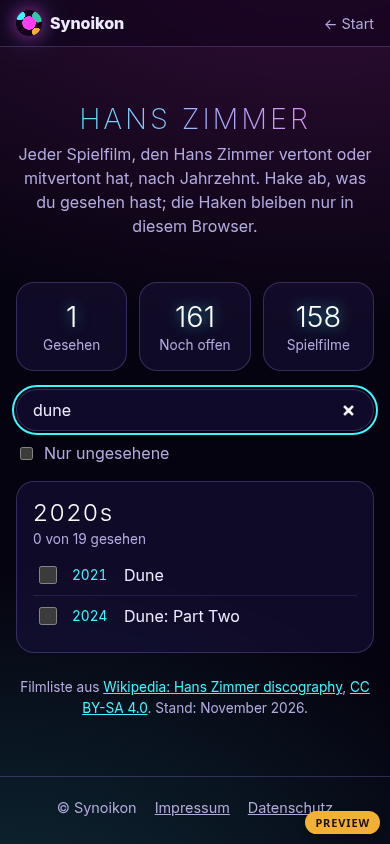
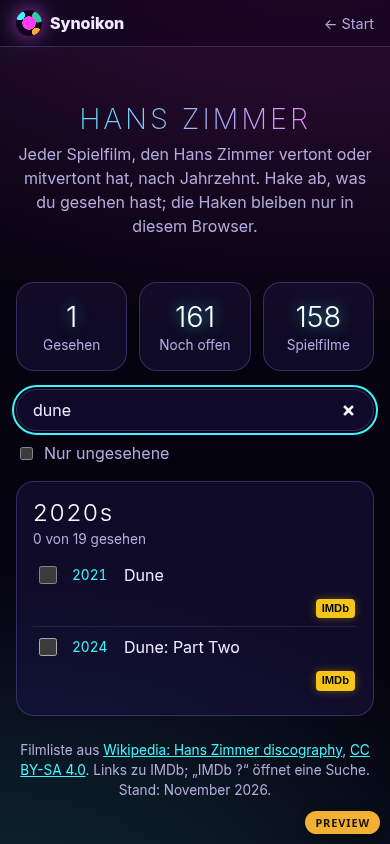
Zimmer tracker: IMDb link per film (164 exact IDs via Wikidata P345, 2 search fallbacks); new tab, noopener noreferrer; link outside the tick label

diff --git a/home/zimmer/index.html b/home/zimmer/index.html
@@ -31,6 +31,10 @@
     .row.seen .ti { color: var(--muted); text-decoration: line-through; }
     .co { color: var(--muted); font-size: .82rem; }
     .credit { color: var(--muted); font-size: .85rem; text-align: center; margin-top: 24px; line-height: 1.5; }
+    .row label { display: contents; cursor: pointer; }
+    .imdb { margin-left: auto; font: 800 .7rem/1 Arial, sans-serif; color: #000 !important; background: #f5c518; border-radius: 4px; padding: 4px 6px; text-decoration: none; box-shadow: 0 0 10px rgba(245,197,24,.35); }
+    .imdb.s { background: transparent; color: #f5c518 !important; border: 1px solid #f5c518; }
+    .imdb:hover, .imdb:focus-visible { box-shadow: 0 0 16px rgba(245,197,24,.8); outline: none; }
     .empty { color: var(--muted); text-align: center; }
     .brand + a { color: var(--muted); font-size: .9rem; text-decoration: none; }
   </style>
@@ -55,16 +59,17 @@
       <label><input type="checkbox" id="unseen"> <span data-i18n="unseen">Unseen only</span></label>
     </div>
     <div id="list"></div>
-    <p class="credit"><span data-i18n="credit">Film list from</span> <a href="https://en.wikipedia.org/wiki/Hans_Zimmer_discography" rel="noopener">Wikipedia: Hans Zimmer discography</a>, <a href="https://creativecommons.org/licenses/by-sa/4.0/" rel="noopener">CC BY-SA 4.0</a>. <span data-i18n="state">Status: November 2026.</span></p>
+    <p class="credit"><span data-i18n="credit">Film list from</span> <a href="https://en.wikipedia.org/wiki/Hans_Zimmer_discography" rel="noopener">Wikipedia: Hans Zimmer discography</a>, <a href="https://creativecommons.org/licenses/by-sa/4.0/" rel="noopener">CC BY-SA 4.0</a>. <span data-i18n="imdbC">Links go to IMDb; “IMDb ?” opens a search.</span> <span data-i18n="state">Status: November 2026.</span></p>
   </main>
   <footer class="foot"><span>© Synoikon</span><a href="../impressum/">Impressum</a><a href="../datenschutz/" data-i18n="priv">Privacy</a></footer>
   <script>
 const FILMS = [["Moonlighting",1982,"Stanley Myers"],["Success Is the Best Revenge",1984,"Stanley Myers"],["Story of O – Chapter 2",1984,"Stanley Myers"],["My Beautiful Laundrette",1985,"Stanley Myers"],["Insignificance",1985,"Stanley Myers"],["The Zero Boys",1986,"Stanley Myers"],["Separate Vacations",1986,"Stanley Myers"],["Terminal Exposure",1987,"Stanley Myers"],["Nightmare at Noon",1988,"Stanley Myers"],["The Wind",1986,"Stanley Myers"],["The Nature of the Beast",1988,"Stanley Myers"],["The Fruit Machine",1988,"Stanley Myers"],["A World Apart",1988,""],["Taffin",1988,"Stanley Myers"],["Paperhouse",1988,"Stanley Myers"],["Rain Man",1988,""],["Burning Secret",1988,""],["Twister",1989,""],["Black Rain",1989,""],["Diamond Skulls",1989,""],["Driving Miss Daisy",1989,""],["Chicago Joe and the Showgirl",1990,""],["Bird on a Wire",1990,""],["Fools of Fortune",1990,""],["Days of Thunder",1990,""],["Pacific Heights",1990,""],["Green Card",1990,""],["Backdraft",1991,""],["Thelma & Louise",1991,""],["Regarding Henry",1991,""],["Where Sleeping Dogs Lie",1992,"Mark Mancina"],["K2",1991,"Chaz Jankel"],["Radio Flyer",1992,""],["The Power of One",1992,""],["A League of Their Own",1992,""],["Toys",1992,"Trevor Horn"],["Point of No Return",1993,""],["Younger and Younger",1993,""],["Calendar Girl",1993,""],["True Romance",1993,""],["Cool Runnings",1993,""],["The House of the Spirits",1993,""],["I'll Do Anything",1994,""],["Renaissance Man",1994,""],["The Lion King",1994,""],["Drop Zone",1994,""],["Crimson Tide",1995,""],["Beyond Rangoon",1995,""],["Nine Months",1995,""],["Something to Talk About",1995,"Graham Preskett"],["Two Deaths",1995,""],["The Whole Wide World",1996,"Harry Gregson-Williams"],["Broken Arrow",1996,""],["Muppet Treasure Island",1996,""],["The Rock",1996,"Nick Glennie-Smith"],["The Fan",1996,""],["The Preacher's Wife",1996,""],["Smilla's Sense of Snow",1997,"Harry Gregson-Williams"],["The Peacemaker",1997,""],["As Good as It Gets",1997,""],["The Prince of Egypt",1998,""],["The Thin Red Line",1998,""],["Chill Factor",1999,"John Powell"],["An Everlasting Piece",2000,""],["Mission: Impossible 2",2000,""],["The Road to El Dorado",2000,"John Powell"],["Gladiator",2000,"Lisa Gerrard"],["Black Hawk Down",2001,""],["Riding in Cars with Boys",2001,""],["Pearl Harbor",2001,""],["Hannibal",2001,""],["Invincible",2001,"Klaus Badelt"],["The Pledge",2001,"Klaus Badelt"],["Spirit: Stallion of the Cimarron",2002,""],["The Country Bears",2002,""],["The Ring",2002,""],["The Last Samurai",2003,""],["Something's Gotta Give",2003,""],["Matchstick Men",2003,""],["Tears of the Sun",2003,""],["Spanglish",2004,""],["Laura's Star",2004,"Nick Glennie-Smith & Henning Lohner"],["King Arthur",2004,""],["Thunderbirds",2004,""],["Shark Tale",2004,""],["The Weather Man",2005,"James S. Levine"],["The Little Polar Bear 2: The Mysterious Island",2005,"Nick Glennie-Smith"],["Madagascar",2005,""],["Batman Begins",2005,"James Newton Howard"],["Pirates of the Caribbean: Dead Man's Chest",2006,""],["The Da Vinci Code",2006,""],["The Holiday",2006,""],["Pirates of the Caribbean: At World's End",2007,""],["The Simpsons Movie",2007,""],["Road to Fame",2008,""],["Kung Fu Panda",2008,"John Powell"],["The Dark Knight",2008,"James Newton Howard"],["Madagascar: Escape 2 Africa",2008,"will.i.am"],["The Burning Plain",2008,"Omar Rodríguez-López"],["Frost/Nixon",2008,""],["Angels & Demons",2009,""],["Sherlock Holmes",2009,""],["It's Complicated",2009,"Heitor Pereira"],["Inception",2010,""],["Megamind",2010,"Lorne Balfe"],["How Do You Know",2010,""],["Henri 4",2010,"Henry Jackman"],["Rango",2011,""],["Pirates of the Caribbean: On Stranger Tides",2011,""],["Kung Fu Panda 2",2011,"John Powell"],["The Dilemma",2011,"Lorne Balfe"],["Sherlock Holmes: A Game of Shadows",2011,""],["Madagascar 3: Europe's Most Wanted",2012,""],["The Dark Knight Rises",2012,""],["Rush",2013,""],["Man of Steel",2013,""],["The Lone Ranger",2013,""],["Mr. Morgan's Last Love",2013,""],["12 Years a Slave",2013,""],["Son of God",2014,"Lorne Balfe and Lisa Gerrard"],["The Amazing Spider-Man 2",2014,"The Magnificent Six"],["Winter's Tale",2014,"Rupert Gregson-Williams"],["Interstellar",2014,""],["Chappie",2015,""],["The Little Prince",2015,"Richard Harvey and Camille"],["Freeheld",2015,"Johnny Marr"],["Woman in Gold",2015,"Martin Phipps"],["Kung Fu Panda 3",2016,""],["Batman v Superman: Dawn of Justice",2016,"Junkie XL"],["The Last Face",2016,""],["Inferno",2016,""],["Hidden Figures",2016,"Pharrell Williams and Benjamin Wallfisch"],["The Boss Baby",2017,"Steve Mazzaro"],["Pirates of the Caribbean: Dead Men Tell No Tales",2017,"themes only, score by Geoff Zanelli"],["Dunkirk",2017,""],["Blade Runner 2049",2017,"Benjamin Wallfisch"],["Widows",2018,""],["Dark Phoenix",2019,""],["The Lion King",2019,""],["The SpongeBob Movie: Sponge on the Run",2020,"Steve Mazzaro"],["Hillbilly Elegy",2020,"David Fleming"],["Wonder Woman 1984",2020,""],["The Boss Baby: Family Business",2021,"Steve Mazzaro"],["Dune",2021,""],["The Survivor",2021,""],["No Time to Die",2021,""],["Army of Thieves",2021,"Steve Mazzaro"],["The Unforgivable",2021,"David Fleming"],["Top Gun: Maverick",2022,"Harold Faltermeyer and Lady Gaga"],["The Son",2022,""],["Are You There God? It's Me, Margaret.",2023,""],["The Creator",2023,""],["Dune: Part Two",2024,""],["Kung Fu Panda 4",2024,"Steve Mazzaro"],["Eden",2024,""],["Blitz",2024,""],["F1",2025,""],["Ella McCay",2025,""]];
 const DOCS = [["The Last Days",1998,""],["Jealous of the Birds",2011,""],["Brave Miss World",2013,""],["Rebuilding Paradise",2020,"Lorne Balfe"]];
+const IMDB = {"12 Years a Slave|2013":"tt2024544","A League of Their Own|1992":"tt0104694","A World Apart|1988":"tt0096464","An Everlasting Piece|2000":"tt0218182","Angels & Demons|2009":"tt0808151","Are You There God? It's Me, Margaret.|2023":"tt9185206","Army of Thieves|2021":"tt13024674","As Good as It Gets|1997":"tt0119822","Backdraft|1991":"tt0101393","Batman Begins|2005":"tt0372784","Batman v Superman: Dawn of Justice|2016":"tt2975590","Beyond Rangoon|1995":"tt0112495","Bird on a Wire|1990":"tt0099141","Black Hawk Down|2001":"tt0265086","Black Rain|1989":"tt0096933","Blade Runner 2049|2017":"tt1856101","Blitz|2024":"tt15939198","Brave Miss World|2013":"tt2514298","Broken Arrow|1996":"tt0115759","Burning Secret|1988":"tt0094816","Calendar Girl|1993":"tt0106505","Chappie|2015":"tt1823672","Chicago Joe and the Showgirl|1990":"tt0099250","Chill Factor|1999":"tt0163579","Cool Runnings|1993":"tt0106611","Crimson Tide|1995":"tt0112740","Dark Phoenix|2019":"tt6565702","Days of Thunder|1990":"tt0099371","Diamond Skulls|1989":"tt0097158","Driving Miss Daisy|1989":"tt0097239","Drop Zone|1994":"tt0109676","Dune: Part Three|2026":"tt31378509","Dune: Part Two|2024":"tt15239678","Dune|2021":"tt1160419","Dunkirk|2017":"tt5013056","Eden|2024":"tt23149780","Ella McCay|2025":"tt30096221","F1|2025":"tt16311594","Fools of Fortune|1990":"tt0099594","Freeheld|2015":"tt1658801","Frost/Nixon|2008":"tt0870111","Gladiator|2000":"tt0172495","Green Card|1990":"tt0099699","Hannibal|2001":"tt0212985","Henri 4|2010":"tt1270766","Hidden Figures|2016":"tt4846340","Hillbilly Elegy|2020":"tt6772802","How Do You Know|2010":"tt1341188","I'll Do Anything|1994":"tt0110097","Inception|2010":"tt1375666","Inferno|2016":"tt3062096","Insignificance|1985":"tt0089343","Interstellar|2014":"tt0816692","Invincible|2001":"tt0245171","It's Complicated|2009":"tt1230414","Jealous of the Birds|2011":"tt1531683","K2|1991":"tt0102178","King Arthur|2004":"tt0349683","Kung Fu Panda 2|2011":"tt1302011","Kung Fu Panda 3|2016":"tt2267968","Kung Fu Panda 4|2024":"tt21692408","Kung Fu Panda|2008":"tt0441773","Laura's Star|2004":"tt0416908","Madagascar 3: Europe's Most Wanted|2012":"tt1277953","Madagascar: Escape 2 Africa|2008":"tt0479952","Madagascar|2005":"tt0351283","Man of Steel|2013":"tt0770828","Matchstick Men|2003":"tt0325805","Megamind|2010":"tt1001526","Mission: Impossible 2|2000":"tt0120755","Moonlighting|1982":"tt0084354","Mr. Morgan's Last Love|2013":"tt1838603","Muppet Treasure Island|1996":"tt0117110","My Beautiful Laundrette|1985":"tt0091578","Nightmare at Noon|1988":"tt0100261","Nine Months|1995":"tt0113986","No Time to Die|2021":"tt2382320","Pacific Heights|1990":"tt0100318","Paperhouse|1988":"tt0098061","Pearl Harbor|2001":"tt0213149","Pirates of the Caribbean: At World's End|2007":"tt0449088","Pirates of the Caribbean: Dead Man's Chest|2006":"tt0383574","Pirates of the Caribbean: Dead Men Tell No Tales|2017":"tt1790809","Pirates of the Caribbean: On Stranger Tides|2011":"tt1298650","Point of No Return|1993":"tt0107843","Radio Flyer|1992":"tt0105211","Rain Man|1988":"tt0095953","Ramayana: Part 1|2026":"tt27988879","Ramayana: Part 2|2027":"tt34464688","Rango|2011":"tt1192628","Rebuilding Paradise|2020":"tt9735350","Regarding Henry|1991":"tt0102768","Renaissance Man|1994":"tt0110971","Riding in Cars with Boys|2001":"tt0200027","Road to Fame|2008":"tt1049948","Rush|2013":"tt1979320","Separate Vacations|1986":"tt0091923","Shark Tale|2004":"tt0307453","Sherlock Holmes: A Game of Shadows|2011":"tt1515091","Sherlock Holmes|2009":"tt0988045","Smilla's Sense of Snow|1997":"tt0120152","Something to Talk About|1995":"tt0114496","Something's Gotta Give|2003":"tt0337741","Son of God|2014":"tt3210686","Spanglish|2004":"tt0371246","Spirit: Stallion of the Cimarron|2002":"tt0166813","Success Is the Best Revenge|1984":"tt0088200","Taffin|1988":"tt0096211","Tears of the Sun|2003":"tt0314353","Terminal Exposure|1987":"tt0094122","The Amazing Spider-Man 2|2014":"tt1872181","The Boss Baby: Family Business|2021":"tt6932874","The Boss Baby|2017":"tt3874544","The Burning Plain|2008":"tt1068641","The Country Bears|2002":"tt0276033","The Creator|2023":"tt11858890","The Da Vinci Code|2006":"tt0382625","The Dark Knight Rises|2012":"tt1345836","The Dark Knight|2008":"tt0468569","The Dilemma|2011":"tt1578275","The Fan|1996":"tt0116277","The Fruit Machine|1988":"tt0095183","The Holiday|2006":"tt0457939","The House of the Spirits|1993":"tt0107151","The Last Days|1998":"tt0174852","The Last Face|2016":"tt3286560","The Last Samurai|2003":"tt0325710","The Lion King|1994":"tt0110357","The Lion King|2019":"tt6105098","The Little Polar Bear 2: The Mysterious Island|2005":"tt0401559","The Little Prince|2015":"tt1754656","The Lone Ranger|2013":"tt1210819","The Nature of the Beast|1988":"tt0272747","The Peacemaker|1997":"tt0119874","The Pledge|2001":"tt0237572","The Power of One|1992":"tt0105159","The Preacher's Wife|1996":"tt0117372","The Prince of Egypt|1998":"tt0120794","The Ring|2002":"tt0298130","The Road to El Dorado|2000":"tt0138749","The Rock|1996":"tt0117500","The Simpsons Movie|2007":"tt0462538","The Son|2022":"tt14458442","The SpongeBob Movie: Sponge on the Run|2020":"tt4823776","The Survivor|2021":"tt9242528","The Thin Red Line|1998":"tt0120863","The Unforgivable|2021":"tt11233960","The Weather Man|2005":"tt0384680","The Whole Wide World|1996":"tt0118163","The Wind|1986":"tt0094327","The Zero Boys|1986":"tt0092288","Thelma & Louise|1991":"tt0103074","Thunderbirds|2004":"tt0167456","Top Gun: Maverick|2022":"tt1745960","Toys|1992":"tt0105629","True Romance|1993":"tt0108399","Twister|1989":"tt0096321","Two Deaths|1995":"tt0117999","Where Sleeping Dogs Lie|1992":"tt0105809","Widows|2018":"tt4218572","Winter's Tale|2014":"tt1837709","Woman in Gold|2015":"tt2404425","Wonder Woman 1984|2020":"tt7126948","Younger and Younger|1993":"tt0108636"};
 const UP = [["The Last Photograph",2026,"Omer Benyamin and Steven Doar"],["Ramayana: Part 1",2026,"A. R. Rahman"],["Dune: Part Three",2026,""],["Ramayana: Part 2",2027,"A. R. Rahman"]];
 (function () {
-  var T = { de: { back: '← Start', sub: 'Jeder Spielfilm, den Hans Zimmer vertont oder mitvertont hat, nach Jahrzehnt. Hake ab, was du gesehen hast; die Haken bleiben nur in diesem Browser.', seen: 'Gesehen', left: 'Noch offen', feat: 'Spielfilme', ph: 'Titel, Jahr oder Mitkomponist suchen', unseen: 'Nur ungesehene', credit: 'Filmliste aus', state: 'Stand: November 2026.', priv: 'Datenschutz', docs: 'Dokumentarfilme', docsCap: 'Nicht in der Spielfilm-Zahl enthalten', up: 'Angekündigt', upCap: 'Noch nicht erschienen (Stand November 2026)', of: ' von ', seenS: ' gesehen', with: 'mit ', none: 'Keine Treffer.' } };
-  var E = { docs: 'Documentaries', docsCap: 'Not counted in the feature film total', up: 'Upcoming', upCap: 'Announced, not yet released as of November 2026', of: ' of ', seenS: ' seen', with: 'with ', none: 'No matches.' };
+  var T = { de: { back: '← Start', sub: 'Jeder Spielfilm, den Hans Zimmer vertont oder mitvertont hat, nach Jahrzehnt. Hake ab, was du gesehen hast; die Haken bleiben nur in diesem Browser.', seen: 'Gesehen', left: 'Noch offen', feat: 'Spielfilme', ph: 'Titel, Jahr oder Mitkomponist suchen', unseen: 'Nur ungesehene', credit: 'Filmliste aus', state: 'Stand: November 2026.', priv: 'Datenschutz', docs: 'Dokumentarfilme', docsCap: 'Nicht in der Spielfilm-Zahl enthalten', up: 'Angekündigt', upCap: 'Noch nicht erschienen (Stand November 2026)', of: ' von ', seenS: ' gesehen', with: 'mit ', none: 'Keine Treffer.', onImdb: 'Auf IMDb öffnen (neuer Tab)', srchImdb: 'Auf IMDb suchen (neuer Tab)', credit: 'Filmliste aus', imdbC: 'Links zu IMDb; „IMDb ?“ öffnet eine Suche.' } };
+  var E = { docs: 'Documentaries', docsCap: 'Not counted in the feature film total', up: 'Upcoming', upCap: 'Announced, not yet released as of November 2026', of: ' of ', seenS: ' seen', with: 'with ', none: 'No matches.', onImdb: 'Open on IMDb (new tab)', srchImdb: 'Search on IMDb (new tab)' };
   var lang = (navigator.language || 'en').slice(0, 2), t = T[lang] || {};
   function L(k) { return t[k] || E[k]; }
   if (T[lang]) { document.documentElement.lang = lang;
@@ -77,8 +82,11 @@ const UP = [["The Last Photograph",2026,"Omer Benyamin and Steven Doar"],["Ramay
   function esc(s) { return String(s).replace(/[&<>"]/g, function (c) { return { '&': '&amp;', '<': '&lt;', '>': '&gt;', '"': '&quot;' }[c]; }); }
   function match(f) { var s = q.value.trim().toLowerCase();
     return (!un.checked || !seen[id(f)]) && (!s || (f[0] + ' ' + f[2] + ' ' + f[1]).toLowerCase().indexOf(s) >= 0); }
+  function imdb(f) { var tt = IMDB[id(f)], q = encodeURIComponent(f[0] + ' ' + f[1]);
+    return '<a class="imdb' + (tt ? '' : ' s') + '" target="_blank" rel="noopener noreferrer" href="' + (tt ? 'https://www.imdb.com/title/' + tt + '/' : 'https://www.imdb.com/find/?q=' + q + '&s=tt') + '" title="' + (tt ? L('onImdb') : L('srchImdb')) + '" aria-label="' + esc(f[0]) + ' (' + f[1] + '): ' + (tt ? L('onImdb') : L('srchImdb')) + '">IMDb' + (tt ? '' : ' ?') + '</a>'; }
+  function co(f) { return f[2] ? '<span class="co">' + L('with') + esc(f[2]) + '</span>' : ''; }
   function rows(fs) { return fs.filter(match).map(function (f) { var k = id(f), on = !!seen[k];
-    return '<label class="row' + (on ? ' seen' : '') + '"><input type="checkbox" data-k="' + esc(k) + '"' + (on ? ' checked' : '') + '><span class="yr">' + f[1] + '</span><span class="ti">' + esc(f[0]) + '</span>' + (f[2] ? '<span class="co">' + L('with') + esc(f[2]) + '</span>' : '') + '</label>'; }).join(''); }
+    return '<div class="row' + (on ? ' seen' : '') + '"><label><input type="checkbox" data-k="' + esc(k) + '"' + (on ? ' checked' : '') + '><span class="yr">' + f[1] + '</span><span class="ti">' + esc(f[0]) + '</span>' + co(f) + '</label>' + imdb(f) + '</div>'; }).join(''); }
   function card(h, cap, body) { return '<section class="card"><h2>' + h + '</h2><p class="cap">' + cap + '</p>' + body + '</section>'; }
   function render() {
     var all = FILMS.concat(DOCS), n = all.filter(function (f) { return seen[id(f)]; }).length, html = '';
@@ -87,7 +95,7 @@ const UP = [["The Last Photograph",2026,"Omer Benyamin and Steven Doar"],["Ramay
       var fs = FILMS.filter(function (f) { return f[1] >= d && f[1] < d + 10; }), r = rows(fs);
       if (r) html += card(d + 's', fs.filter(function (f) { return seen[id(f)]; }).length + L('of') + fs.length + L('seenS'), r); });
     var r = rows(DOCS); if (r) html += card(L('docs'), L('docsCap'), r);
-    if (!q.value.trim()) html += card(L('up'), L('upCap'), UP.map(function (f) { return '<div class="row" style="cursor:default"><span class="yr">' + f[1] + '</span><span class="ti">' + esc(f[0]) + '</span>' + (f[2] ? '<span class="co">' + L('with') + esc(f[2]) + '</span>' : '') + '</div>'; }).join(''));
+    if (!q.value.trim()) html += card(L('up'), L('upCap'), UP.map(function (f) { return '<div class="row" style="cursor:default"><span class="yr">' + f[1] + '</span><span class="ti">' + esc(f[0]) + '</span>' + co(f) + imdb(f) + '</div>'; }).join(''));
     box.innerHTML = html || '<p class="empty">' + L('none') + '</p>';
   }
   box.addEventListener('change', function (e) { var k = e.target.dataset.k; if (!k) return;
